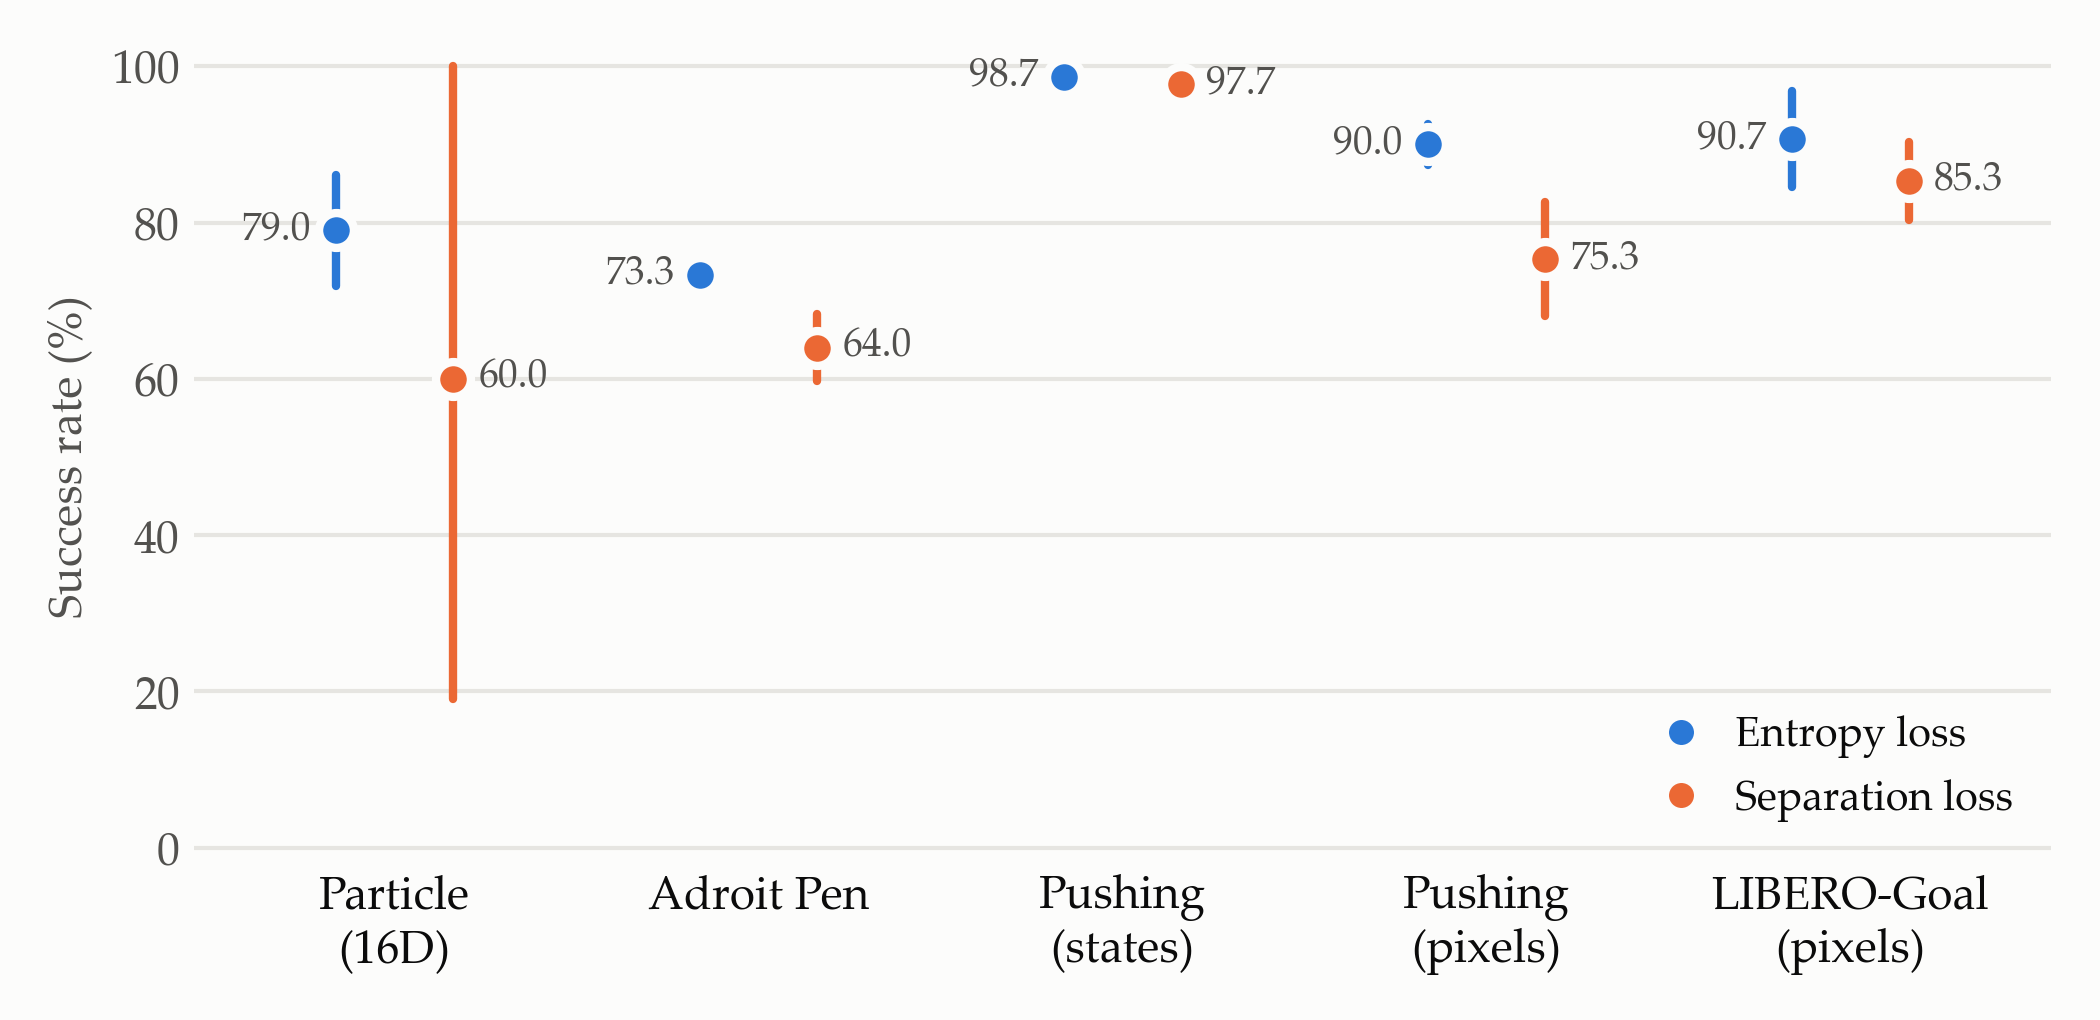
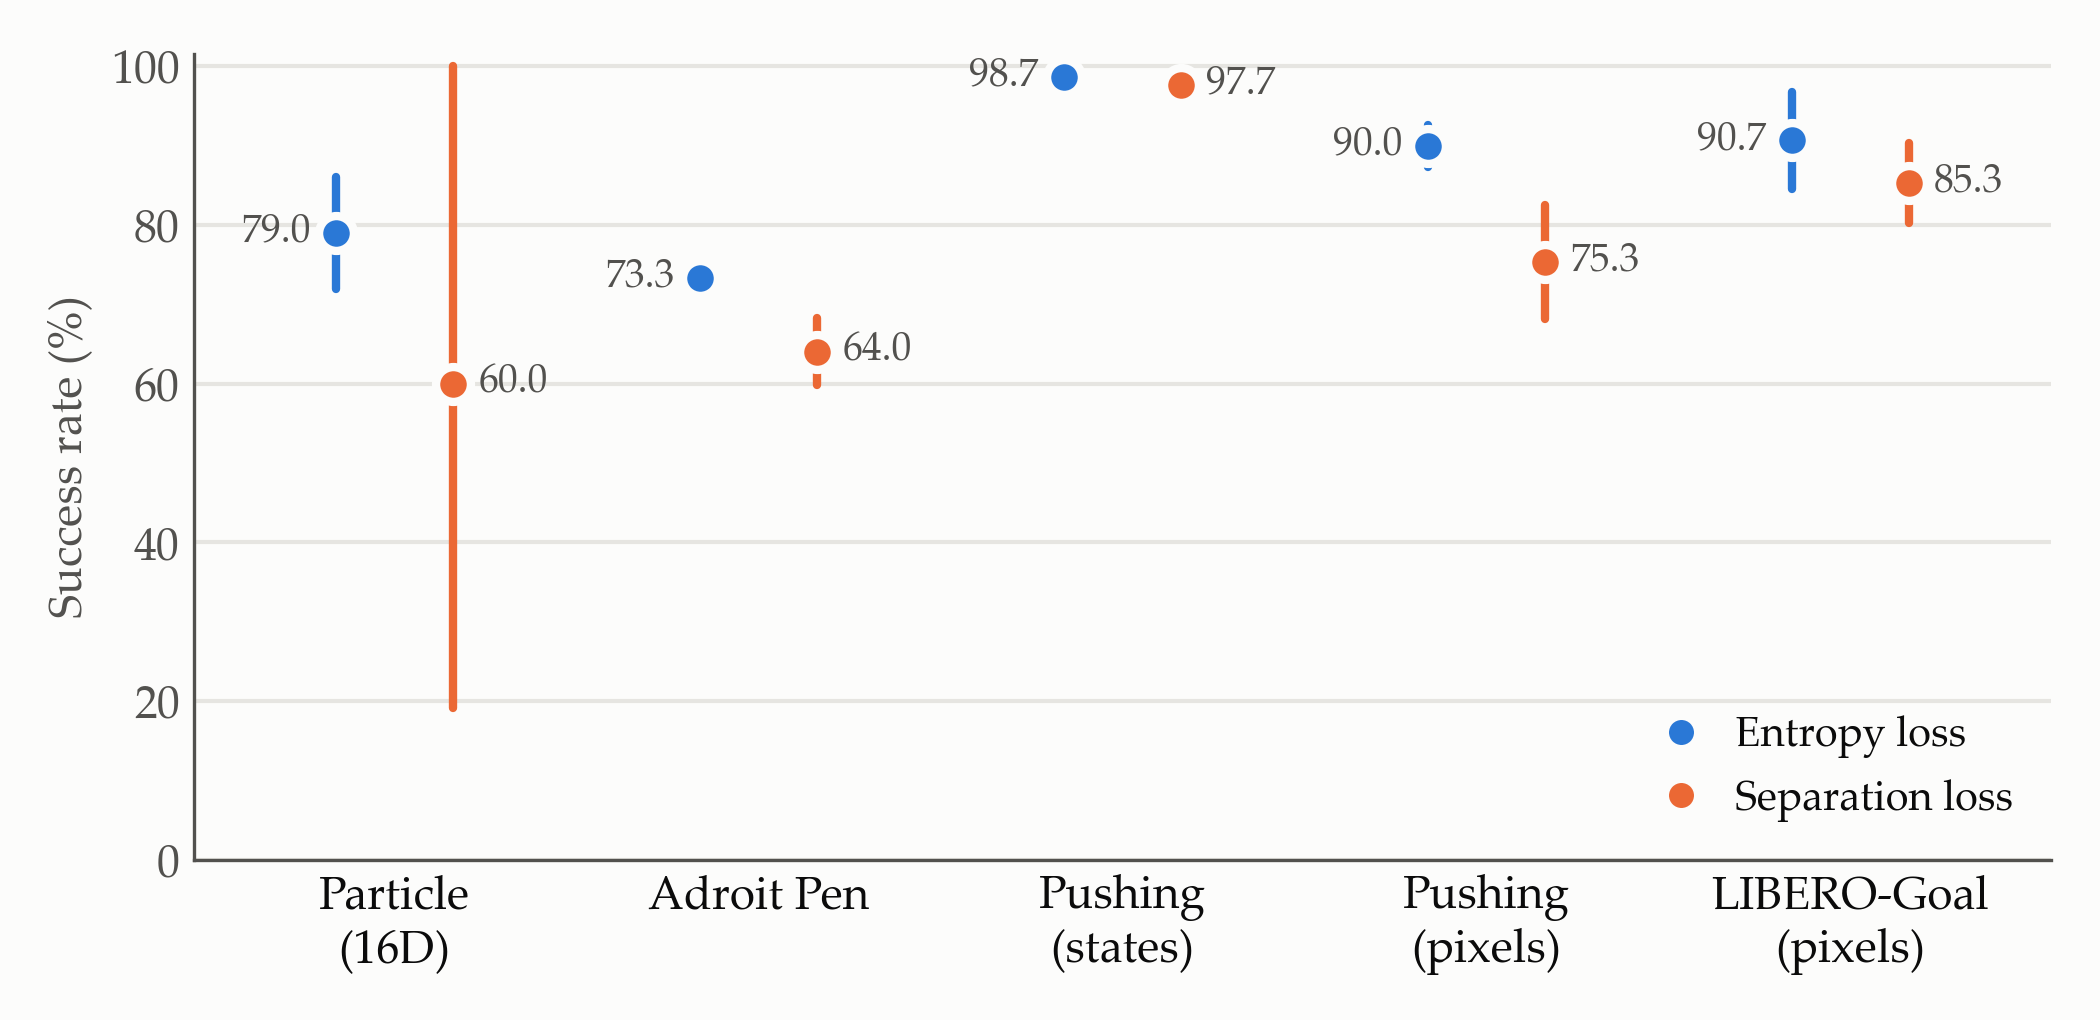
plots: left and bottom axis lines in separation vs entropy
The y axis now starts on the 0 gridline so the x-axis line and that gridline
coincide instead of drawing a double baseline.

diff --git a/scripts/plot_ablation_separation.py b/scripts/plot_ablation_separation.py
@@ -180,7 +180,7 @@ def main() -> int:
     lo = max(0, 10 * int((min(lows) - 1) // 10))
     step = 20 if 100 - lo > 60 else 10
     lo = step * (lo // step)
-    ax.set_ylim(lo - 1.5, 101.5)
+    ax.set_ylim(lo, 101.5)  # axis starts on the lowest gridline, so the x-axis line and that gridline coincide
     ax.set_yticks(range(lo, 101, step))
     ax.set_xlim(-0.55, len(ENVS) - 0.45)
     ax.set_xticks(range(len(ENVS)))
@@ -189,8 +189,12 @@ def main() -> int:
     ax.set_ylabel("Success rate (%)")
     ax.grid(axis="y", color=GRID, linewidth=1, linestyle="-")
     ax.set_axisbelow(True)
-    for side in ("top", "right", "left", "bottom"):  # the lowest gridline is the baseline
+    for side in ("top", "right"):
         ax.spines[side].set_visible(False)
+    for side in ("left", "bottom"):  # axis lines
+        ax.spines[side].set_visible(True)
+        ax.spines[side].set_color(TEXT2)
+        ax.spines[side].set_linewidth(0.8)
     ax.tick_params(axis="both", length=0)
     handles = [Line2D([], [], marker="o", linestyle="", markersize=8, markerfacecolor=c, markeredgecolor=SURFACE,
                       markeredgewidth=2, label=l) for c, l in ((C_ENT, "Entropy loss"), (C_SEP, "Separation loss"))]
